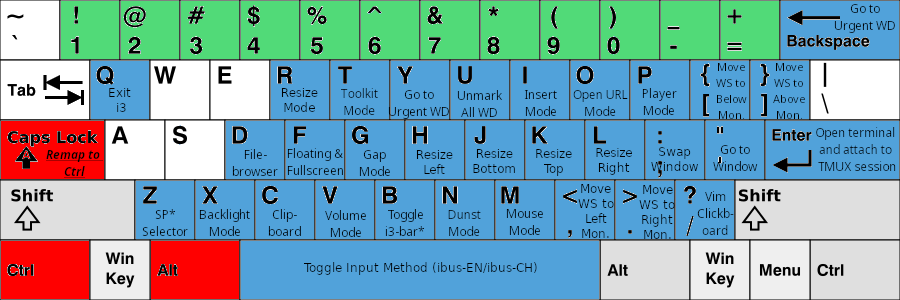
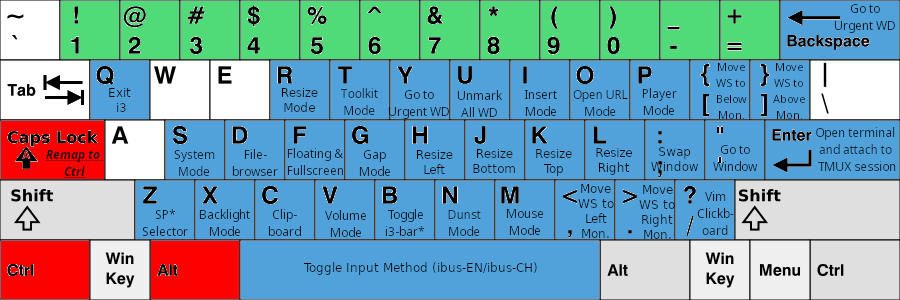
update:update_system_mode_keybinding

Changed region(s): [[0.1867, 0.39, 0.2489, 0.6]]

diff --git a/README.md b/README.md
@@ -244,7 +244,7 @@ Note: the term "window" used in this configuration actually refers to "container
 <details open>
 <summary>Click to expand/shrink</summary>
 
-- __System Mode (`[Winkey]` + `[Shift]` + `[Esc]`)__
+- __System Option Mode (`[Ctrl]` + `[Alt]` + `[s]`)__
     - System command, e.g. exit, power off, reboot, lock, hibernate
         - __Device Mode (`[d]`)__
             - Turn on/off RF device, connect/disconnect Bluetooth device
@@ -274,11 +274,11 @@ Note: the term "window" used in this configuration actually refers to "container
 <summary>Click to expand/shrink</summary>
 
 - __Player Mode (`[Ctrl]` + `[Alt]` + `[p]`)__
-    - Player control (e.g. previous, pause-play, next, fast-forward, rewind, stop) for spt (spotify TUI front-end), player, mpv and vlc
+    - Player control (e.g. previous, pause-play, next, fast-forward, rewind, stop) for spt (spotify TUI front-end), MPV, VLC, and all MPRIS players
         - __Spotifyd Mode (`[s]`)__
             - Spotifyd control (e.g. enable, disable, reload) for spotifyd
-        - __Mpv Mode (`[s]`)__
-            - Mpv control
+        - __MPV Mode (`[m]`)__
+            - MPV function (e.g. playlist)
 - __Volume Mode (`[Ctrl]` + `[Alt]` + `[v]`)__
     - Volume control with pulsemixer (e.g. volume up/down, mute)
 
@@ -520,6 +520,8 @@ Keybindings that are not list in [Prefix: Winkey](#1-prefix-winkey), [Prefix: Wi
     - `[Winkey]` + `[Ctrl]` + `[Esc]`: Swap workspace with selected workspace (interactively)
 
 #### Window
+- __Kill Windows__
+    - `[Winkey]` + `[Shift]` + `[Esc]`: Kill all windows on current workspace
 - __List Windows__
     - `[Alt]` + (`[Shift]`) + `[Tab]`: List all windows on all workspaces i.e. windows-like keybinding
     - `[Alt]` + (`[Shift]`) + `[q]`: List all windows on all workspaces with thumbnails i.e. my customized GNOME-like keybinding
